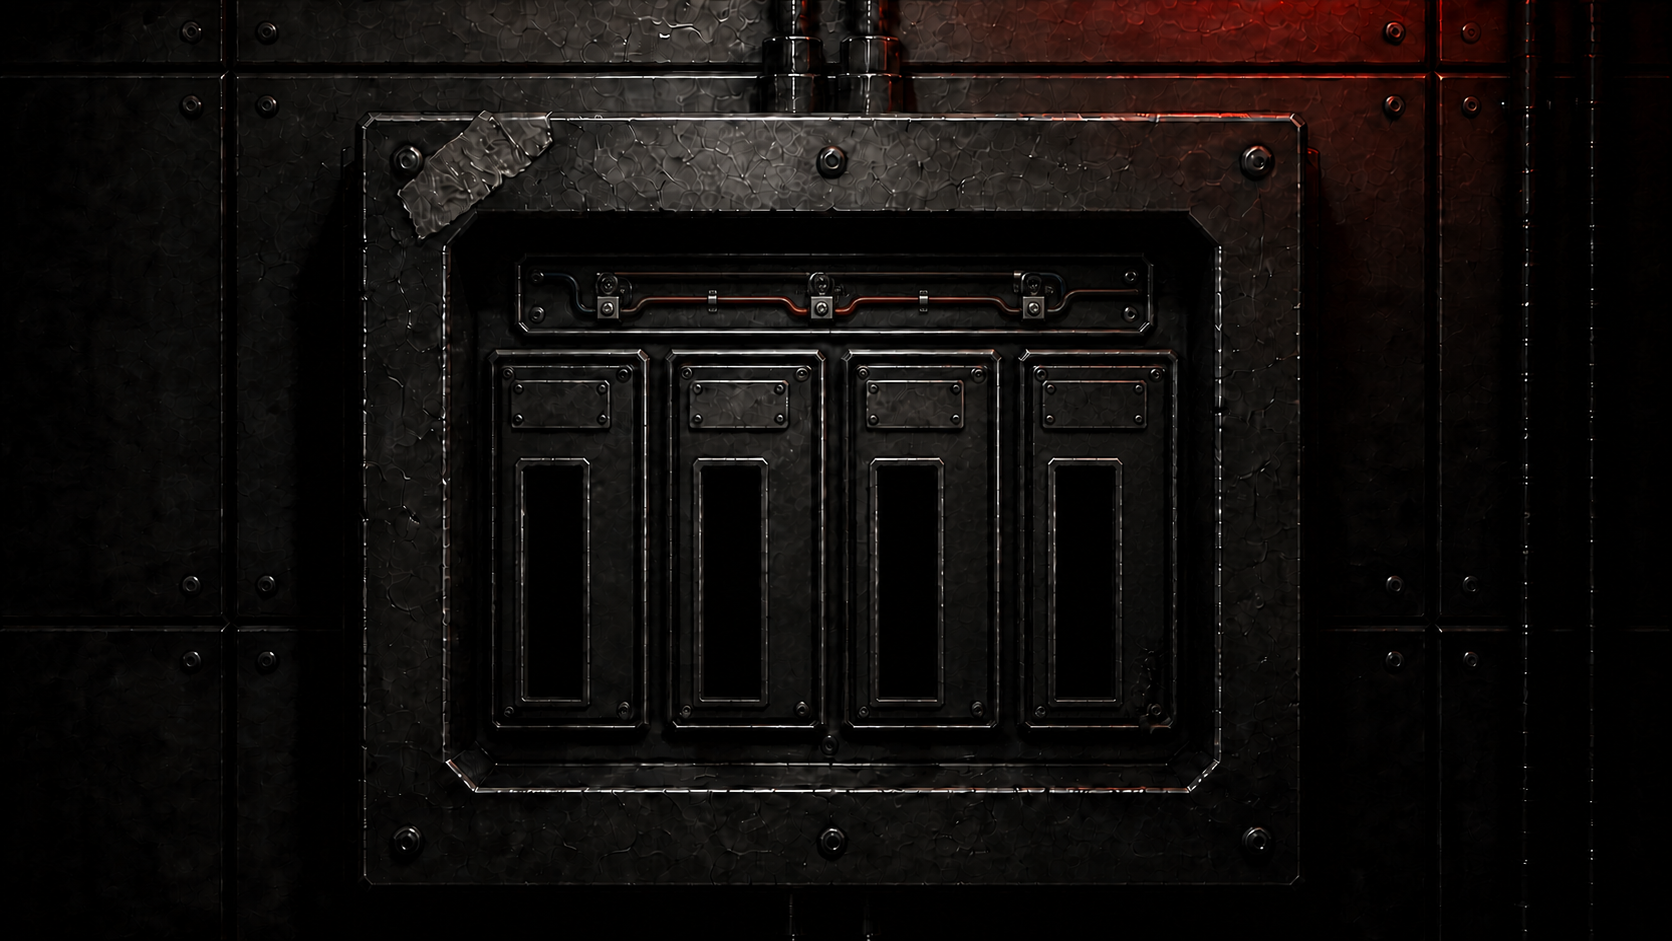
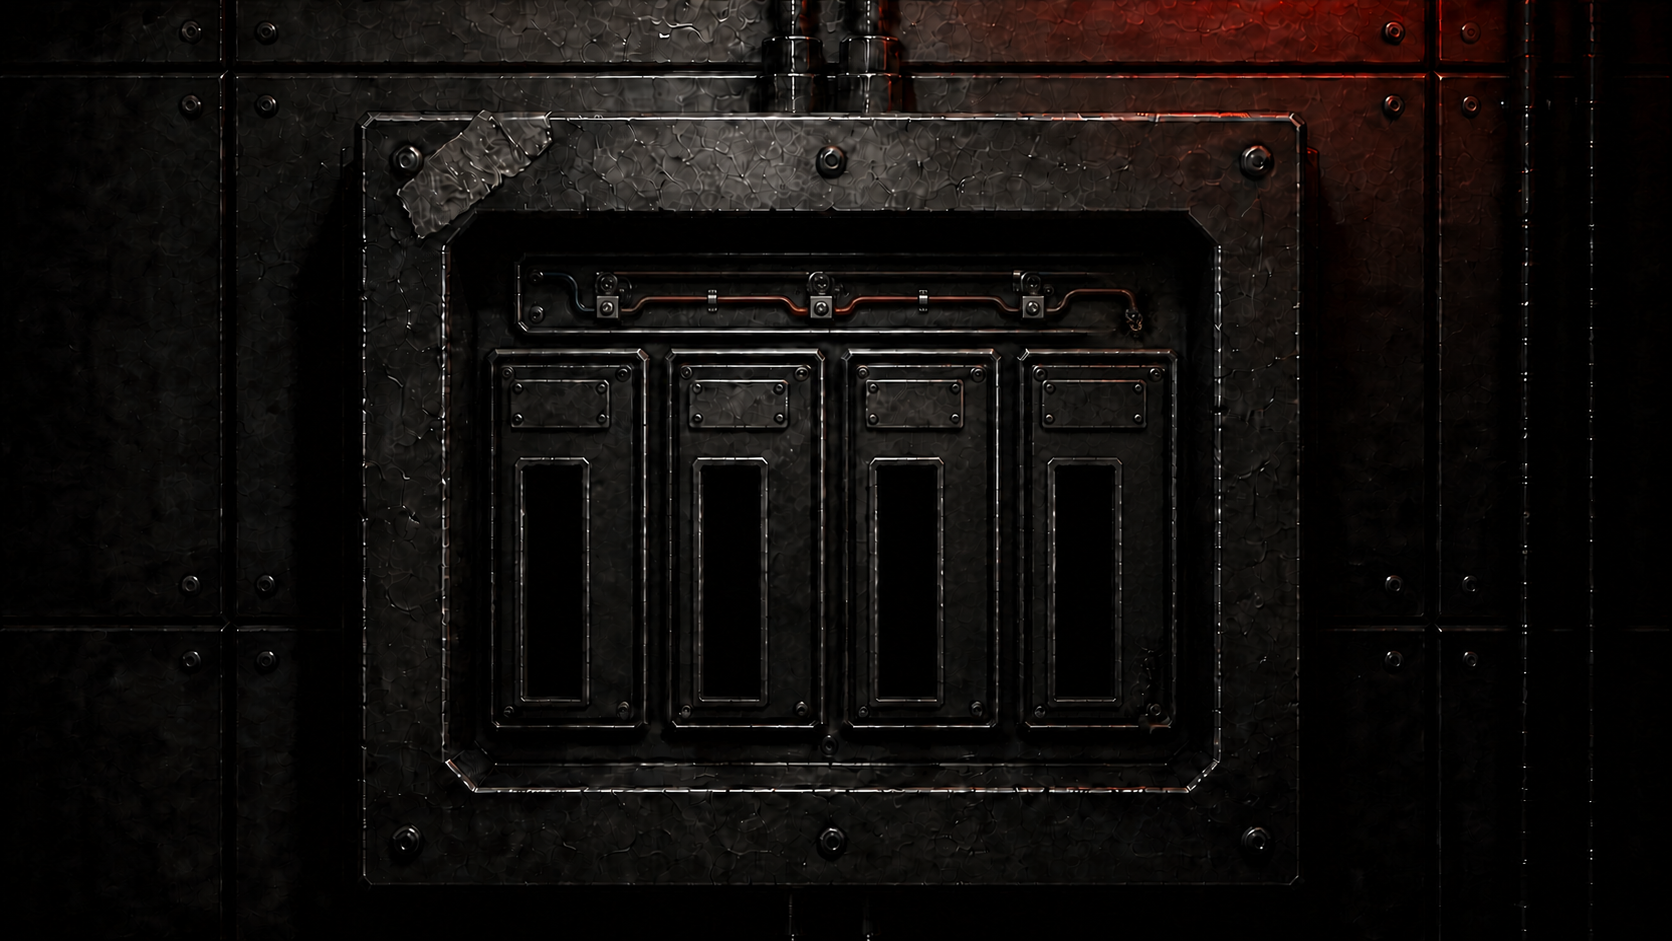
fix(power): 故障手掛かりと復旧状態表示を整える

diff --git a/tests/unit/PuzzleDevice.test.tsx b/tests/unit/PuzzleDevice.test.tsx
@@ -33,6 +33,9 @@ describe('PuzzleDevice', () => {
     expect(leverSources).toHaveLength(4);
     expect(new Set(leverSources)).toHaveLength(1);
     expect(view.container.querySelectorAll('.breaker-socket')).toHaveLength(4);
+    expect(
+      view.container.querySelectorAll('.circuit-status-label'),
+    ).toHaveLength(4);
 
     fireEvent.click(screen.getByRole('button', { name: 'TERMINAL回路、OFF' }));
     expect(onSubmit).toHaveBeenCalledWith('puzzle_power_route', [
@@ -43,7 +46,7 @@ describe('PuzzleDevice', () => {
       screen.getByRole('button', { name: 'DOOR回路、ON' }),
     ).toHaveAttribute('aria-pressed', 'true');
     fireEvent.click(screen.getByRole('button', { name: 'DOOR回路、ON' }));
-    expect(screen.getByText('PROTECTION CLEAR')).toBeVisible();
+    expect(screen.getByText('BOOT SEQUENCE READY')).toBeVisible();
 
     fireEvent.click(
       screen.getByRole('button', { name: 'ECHO BUFFER回路、OFF' }),

diff --git a/src/ui/puzzles/PuzzleDevice.tsx b/src/ui/puzzles/PuzzleDevice.tsx
@@ -274,7 +274,7 @@ function PowerRouteDevice({ submit }: DeviceProps) {
         ? 'ONLINE'
         : startedCount > 0
           ? `BOOT SEQUENCE / ${startedCount} / 3`
-          : 'PROTECTION CLEAR';
+          : 'BOOT SEQUENCE READY';
 
   return (
     <div
@@ -317,6 +317,9 @@ function PowerRouteDevice({ submit }: DeviceProps) {
                   alt=""
                   aria-hidden="true"
                 />
+                <span className="circuit-status-label" aria-hidden="true">
+                  STATUS
+                </span>
                 <span className="breaker-sockets" aria-hidden="true">
                   <span className="breaker-socket">
                     <img

diff --git a/tests/e2e/vertical-slice.spec.ts b/tests/e2e/vertical-slice.spec.ts
@@ -197,7 +197,8 @@ test('keyboard-capable route restores power and resumes after reload', async ({
   await expect(
     powerPuzzle.getByRole('button', { name: 'TERMINAL回路、OFF' }),
   ).toHaveAttribute('aria-pressed', 'false');
-  await expect(powerPuzzle.getByText('PROTECTION CLEAR')).toBeVisible();
+  await expect(powerPuzzle.getByText('BOOT SEQUENCE READY')).toBeVisible();
+  await page.screenshot({ path: 'tmp/power-sequence-ready.png' });
   await powerPuzzle
     .getByRole('button', { name: 'ECHO BUFFER回路、OFF' })
     .press('Enter');

diff --git a/src/styles/global.css b/src/styles/global.css
@@ -2055,6 +2055,21 @@ button:focus-visible {
   filter: brightness(1.02) contrast(1.04);
   animation: rejected-lever 520ms cubic-bezier(0.25, 0.75, 0.25, 1);
 }
+.circuit-status-label {
+  position: absolute;
+  z-index: 1;
+  top: 27.8%;
+  right: 6%;
+  width: 24%;
+  color: rgb(174 193 189 / 54%);
+  font:
+    clamp(0.3rem, 0.42vw, 0.4rem) ui-monospace,
+    monospace;
+  letter-spacing: 0.04em;
+  line-height: 1;
+  text-align: center;
+  pointer-events: none;
+}
 .breaker-sockets {
   position: absolute;
   z-index: 1;

diff --git a/docs/progress.md b/docs/progress.md
@@ -53,7 +53,7 @@
 | P3R-02 | completed | ゲーム内日本語の基準を正本化。パズル、ヒント、目的、端末、独白、資料、所持品、保存通知を平易化し、同じ対象の呼称を統一。正解配列、判定、進行、PACKET本文は変更なし | `npm run check`成功（17 files/56 tests、content・asset validation、build 589.49kB）。Chromiumの全編10問・keyboard・touch・focus・reduced-motionを含む対象9件成功（7件初回＋文言期待値更新後2件再実行） | 初見時の読みやすさはP7-01で利用者確認 |
 | P3R-03 | completed | 解法を同一画面へ列挙する`evidence`構造を削除。装置readout、進行別の机上資料、端末・通話器・BUFFER・ドアの個別調査、SYSTEM異常表示、全問後のNarrative queueへ単一移行。ロッカー段階で全設備名と記号を常時重ねる銘板overlayも削除。端末は問終了・再開時にSYSTEMへ戻し、プレイヤーがLOG・SIGNAL・SECURITYを選ぶ | `npm run check`成功（17 files/59 tests、content・asset validation、production build）。Chromiumで10問keyboard全編1件、電源復旧・再開keyboardとtouchの代表2件成功 | 初見時の発見順、説明感、迷い方はP7-01で利用者確認 |
 | P3R-04 | completed | 共通フォーム型`PuzzleWorkbench`とtask/options表示を削除。10問固有の`PuzzleDevice`へ移行し、直接操作、自動作動、世界内ハンドル・試験レバー、接写BACK・Escape・focus復帰を統合。ロッカーから意味の曖昧な`4 STEP`補助表記も削除 | `npm run check`成功（18 files/62 tests、content・asset validation、production build）。PuzzleDevice component 3件、Chromiumの10問keyboard全編・電源誤答再試行・touch到達・focus復帰、1280×720の搬送波・ロッカーを目視確認 | 初見時の装置理解と操作発見性はP7-01で利用者確認 |
-| P3B-04 | completed | 非常電源をDOOR異常回路の観察・隔離と、物理配線から読むTERMINAL→INTERCOM→ECHO BUFFERの順次復帰へ再設計。容量・UNIT表示を削除し、固定土台、単一透過レバー、単一透過状態灯を原画座標で複製。4回路を同一規格とし、誤順の一時投入・黄色灯・自動復帰、正順の配線通電VFXを統合 | `npm run check`、PuzzleDevice unit、Chromium電源誤答・復旧・再開E2E、1280×720と1440×800で同一ステージ比率・形状・状態遷移を確認 | 初見時に数秒の観察から異常回路と配線順を読み取れるかP7-01で確認 |
+| P3B-04 | completed | 非常電源をDOOR異常回路の観察・隔離と、物理配線から読むTERMINAL→INTERCOM→ECHO BUFFERの順次復帰へ再設計。容量・UNIT表示を削除し、固定土台、単一透過レバー、単一透過状態灯を原画座標で複製。4回路を同一規格とし、DOOR上部だけに焼損した不通端子、全灯に共通`STATUS`銘記、誤順の一時投入・黄色灯・自動復帰、正順の配線通電VFXを統合。隔離直後は`BOOT SEQUENCE READY`とし、進捗数は投入後だけ表示 | `npm run check`、PuzzleDevice unit、Chromium電源誤答・復旧・再開E2E、1280×720と1440×800で同一ステージ比率・形状・状態遷移を確認 | 初見時に数秒の観察から異常回路と配線順を読み取れるかP7-01で確認 |
 | P3R-05 | completed | 非常電源を盤面全幅の通電図へ変更。搬送波の別置きslider・答え位置数値を削除し波形本体へpointer/touch/keyboard入力を統合。PACKETはCのHEADERを固定し、D/A/Bの端形状、接続・断線、誤答配置保持へ変更。ロッカーのヒント追加案は既存デスク資料との重複として不採用 | `npm run check`成功（18 files/64 tests、content・asset validation、production build 603.28kB）。Chromiumでkeyboardのみ10問通し1件（2.9分）、電源誤答再試行・保存・focus・reduced-motion・touchを含む縦切り8件（4.0分）、搬送波本体touch 1件成功。1280×720の非常電源・搬送波・PACKETを目視確認 | 初見時の操作理解と難易度はP7-01で利用者playtest |
 | P4-01 | completed | 3階層の探索情報、密度上限、誤誘導禁止、壁別dressingを正本化し、WIDE-001〜004の環境ドレッシング改訂previewと4面比較sheetを制作・承認 | 4面1672×941・比較sheet 1920×1080、必須対象・edge cue・禁止decoyの目視照合、`npm run check`、2026-08-11利用者承認 | 高解像度原本とlayer分離はP4-02で継続 |
 | P4-02 | in_progress | 3 bundle・25画像、主要modal背景を統合。Pixi Applicationを単一永続構造へ刷新し、旧Canvas再生成を削除。現在scene保持型double buffer、方向付き240ms crossfade、180度300ms、電源600ms、reduced-motion fade、HTTP cache warming、連続入力時の最新scene収束を実装。UIQ-02でReact・Pixi共通の6〜10点polygon hotspotへ更新。2026-08-11に現行画面への利用者の肯定評価とUI工程移行指示を確認 | asset validation、world/transition unit、同一Canvas維持・全4面fade・電源復旧・全編・touch・輪郭外click拒否E2E | 正式高解像度原本、独立parallax layer、hit mask、残状態差分。UIQ-04の着手は阻害しない |

diff --git a/docs/requirements.md b/docs/requirements.md
@@ -106,6 +106,7 @@
 - DOOR回路をOFFにした後、端末、インターホン、BUFFERの順にONにすると成功する。
 - 短絡中または順番を誤って他回路を操作した場合は、対象レバーが一瞬上がって自動復帰し、黄色灯、局所状態表示、エラー音で理由を返す。正しく投入済みの回路は保持する。
 - 正しい投入ごとに状態灯をシアンにし、次の配線区間へ通電VFXを走らせる。成功時は盤面に`ONLINE`を表示してから電源復旧へ遷移する。
+- 初期状態は`PROTECTION TRIPPED`、DOOR隔離直後は`BOOT SEQUENCE READY`とし、`1 / 3`と`2 / 3`は正しい回路を投入した後だけ表示する。各状態灯には全ユニット共通の`STATUS`銘記を添え、個別状態を答えとして文字表示しない。
 - 音高順パズルと音高視覚補助は使用しない。
 
 ### 7.3 Puzzle 2：搬送波同期
